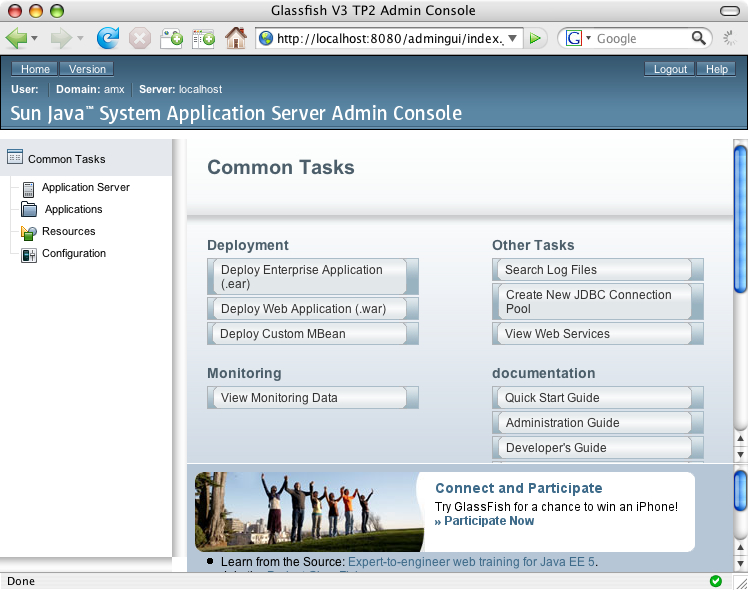
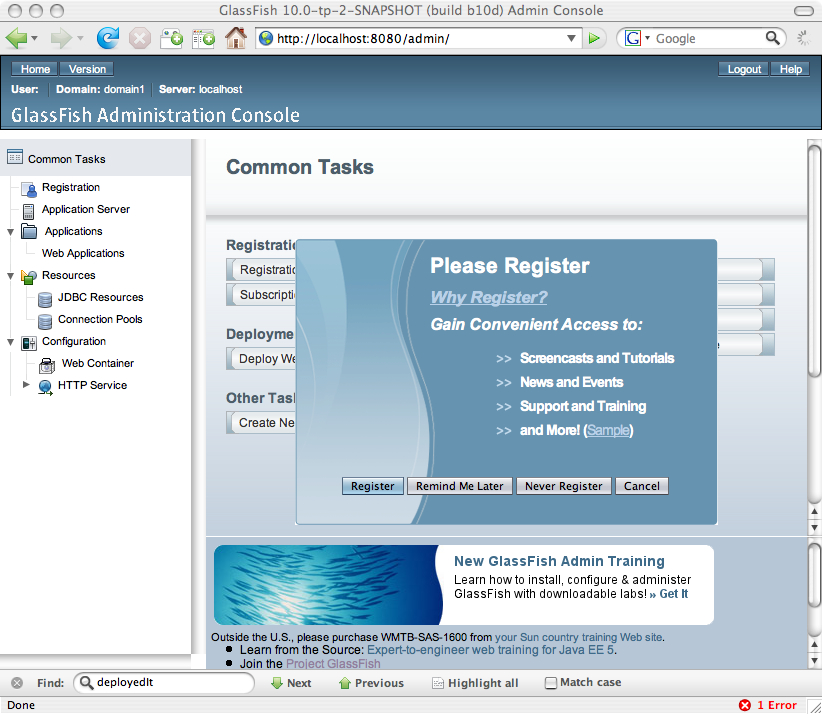
- fix the header image which has the wrong url - recapture image based on tp2 release
git-svn-id: svn+ssh://svn.java.net/glassfish~svn/trunk@20833 6f3ba3e3-413c-0410-a8aa-90bee3ab43b5

diff --git a/v3/admingui/j1plugin/gfplugin/doc/exercise1.html b/v3/admingui/j1plugin/gfplugin/doc/exercise1.html
@@ -689,17 +689,9 @@ glassfish/bin/asadmin start-domain
 </div>
 		</li>
 
-		<li>Deploy the Administration Console.
-<div class="console">
-<pre>
-glassfish/bin/asadmin deploy glassfish/admingui 
-</pre>
-</div>
-		</li>
-
-
                 <li>In the browser enter the following URL to bring up the Administration Console:
-                    <div class="codebox"><pre>http://localhost:8080/admingui/index.jsf</pre></div>
+                    <div class="codebox"><pre>http://localhost:8080/admin</pre></div>
+		    <p><img src="images/ex1-install.jpg"></p>
 
                     <p> <span class="j1holnote">Note: The navigation tree on
 			    the left does not have the "J1 TreeNode" yet as you
@@ -766,7 +758,7 @@ glassfish/bin/asadmin start-domain
                     </li>
 
                     <li>In the browser enter the following URL to bring up the Administration Console:
-                        <div class="codebox"><pre>http://localhost:8080/admingui/index.jsf</pre></div>
+                        <div class="codebox"><pre>http://localhost:8080/admin</pre></div>
                         
                         <ol class="j1hollist">
                             <li>Note the "<b>J1 TreeNode</b>" tree node is now

diff --git a/v3/admingui/j1plugin/gfplugin/doc/exercise3.html b/v3/admingui/j1plugin/gfplugin/doc/exercise3.html
@@ -89,7 +89,7 @@ cp -r gfplugin/solution/myplugin/ex2 gfplugin/myplugin
 
 <p class="j1holsubheader">Overview:</p>
 
-<p> In this excercise, you will complete the following:</p>
+<p> In this exercise, you will complete the following:</p>
 <a name="ex3contents">
     <ol class="j1hollist" style="list-style-type: upper-alpha;">
 	<li><b><a href="#ex3stepA">Create a jMaki Charting Page within a Template.</a></b>
@@ -403,7 +403,7 @@ glassfish/bin/asadmin start-domain
 </div>
 	    </li>
             <li>In the browser enter the following URL to bring up the Administration Console:
-                <div class="codebox"><pre>http://localhost:8080/admingui/index.jsf</pre></div>
+                <div class="codebox"><pre>http://localhost:8080/admin</pre></div>
 
 	<p> Expand the <code>JavaOne</code> tree node which is displayed in
 	    the navigation tree.  Note the new tree node "Exercise #3" under

diff --git a/v3/admingui/j1plugin/gfplugin/doc/exercise2.html b/v3/admingui/j1plugin/gfplugin/doc/exercise2.html
@@ -427,7 +427,7 @@ glassfish/bin/asadmin start-domain
 </div>
 	    </li>
             <li>In the browser enter the following URL to bring up the Administration Console:
-                <div class="codebox"><pre>http://localhost:8080/admingui/index.jsf</pre></div>
+                <div class="codebox"><pre>http://localhost:8080/admin</pre></div>
 
 	    <li>Expand the JavaOne tree node in the navigation tree, note your
 		new tree node "<code>Exercise #2</code>" has been added.  Click
